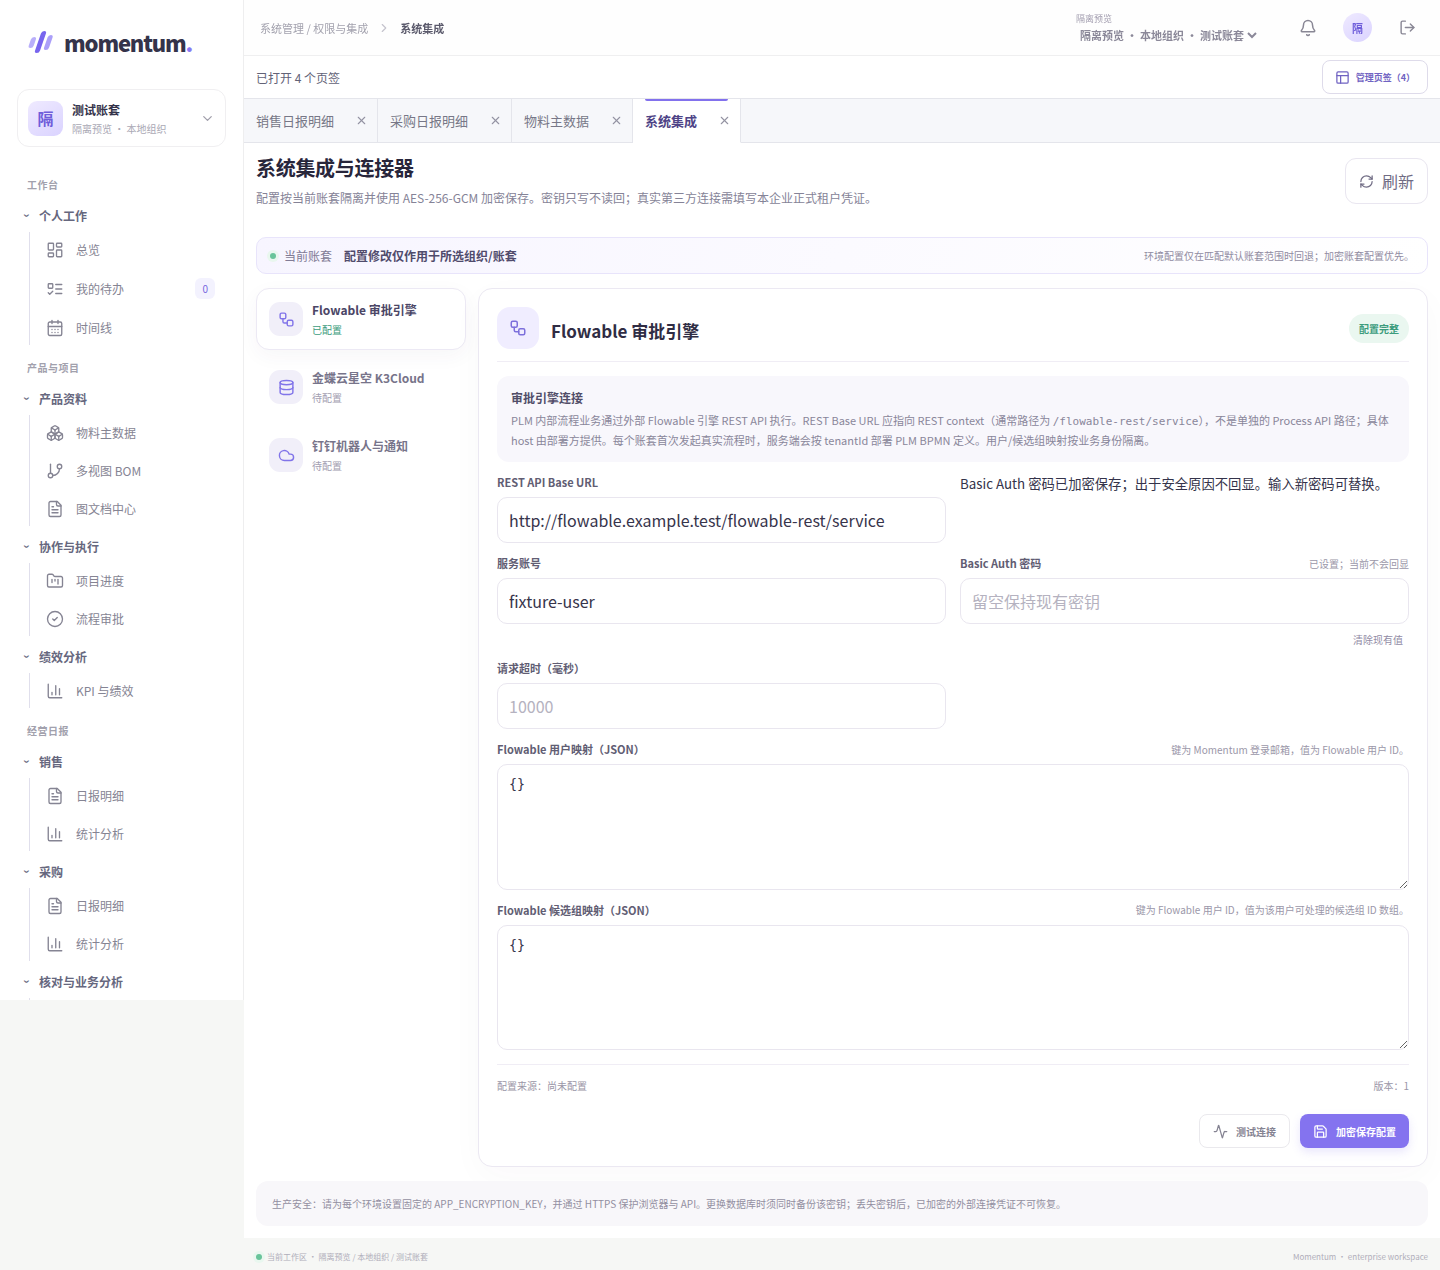
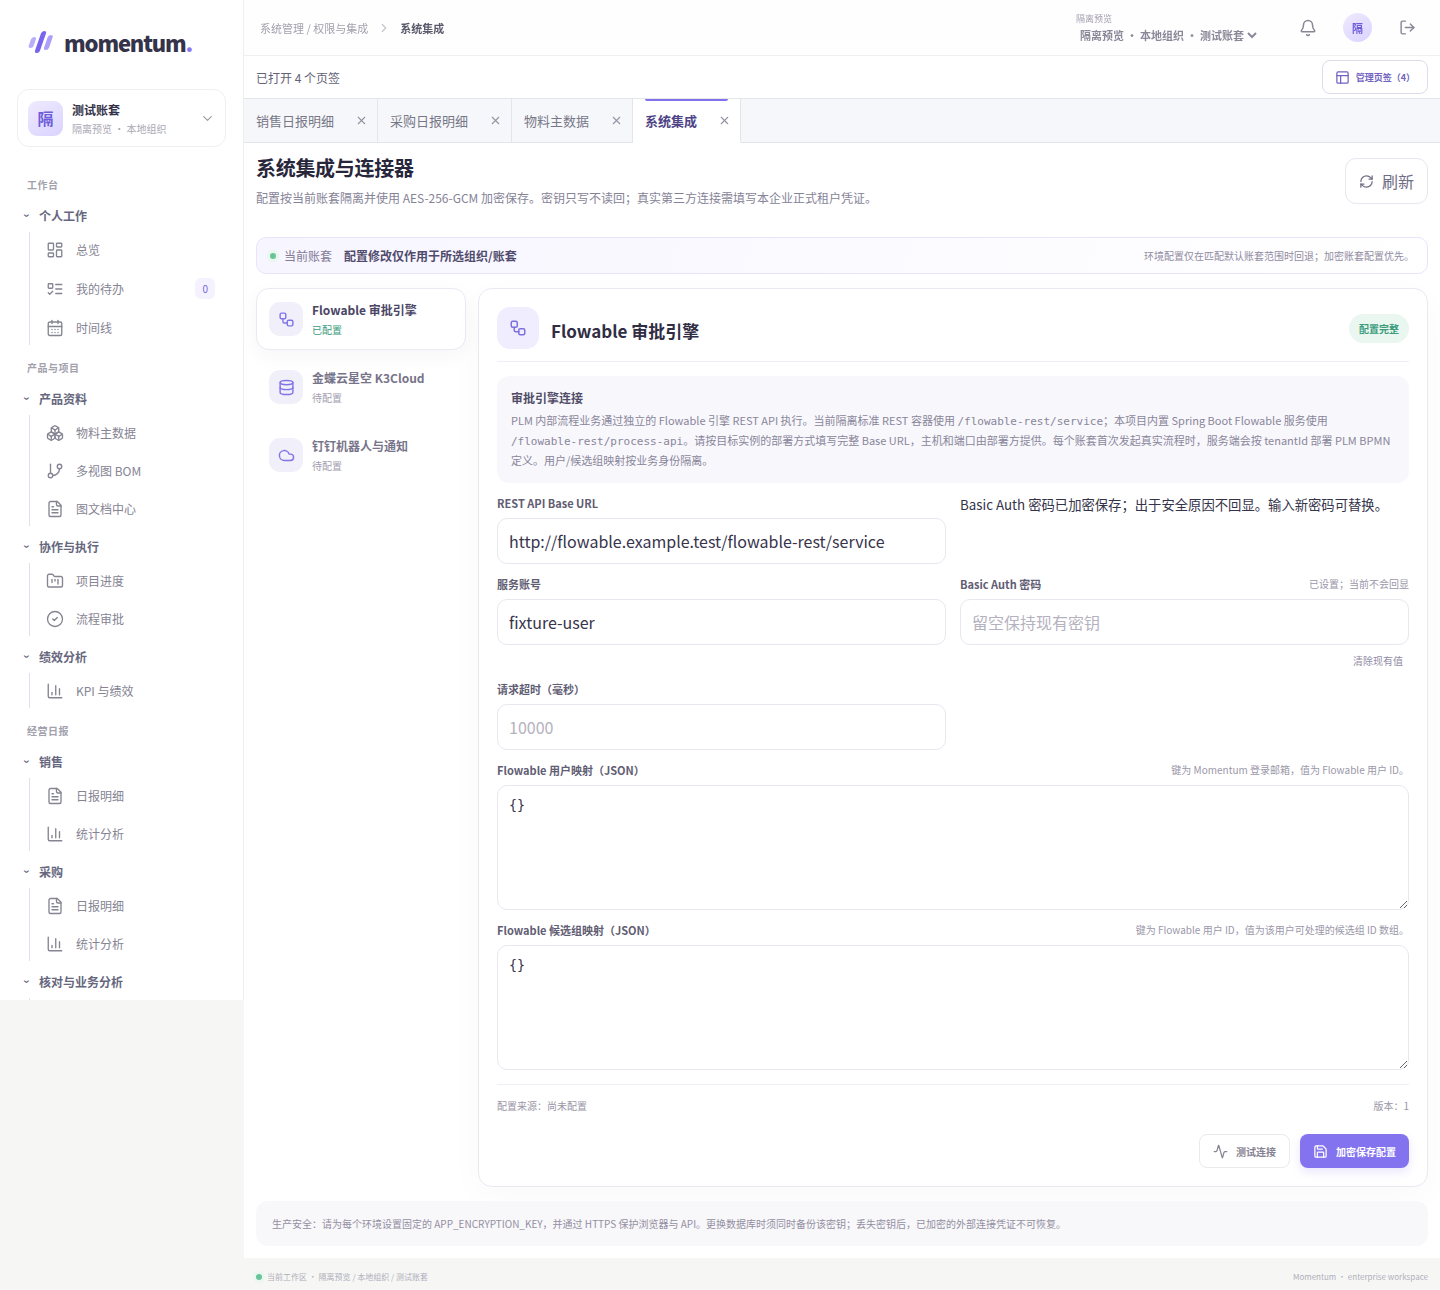
fix(ui): clarify Flowable deployment paths

diff --git a/client/src/ConnectorProviderPanels.tsx b/client/src/ConnectorProviderPanels.tsx
@@ -34,7 +34,7 @@ export function FlowableSettingsPanel({
     <section className="connector-fields" aria-label="Flowable 审批引擎配置">
       <div className="connector-help">
         <b>审批引擎连接</b>
-        <span>PLM 内部流程业务通过外部 Flowable 引擎 REST API 执行。REST Base URL 应指向 REST context（通常路径为 <code>/flowable-rest/service</code>），不是单独的 Process API 路径；具体 host 由部署方提供。每个账套首次发起真实流程时，服务端会按 tenantId 部署 PLM BPMN 定义。用户/候选组映射按业务身份隔离。</span>
+        <span>PLM 内部流程业务通过独立的 Flowable 引擎 REST API 执行。当前隔离标准 REST 容器使用 <code>/flowable-rest/service</code>；本项目内置 Spring Boot Flowable 服务使用 <code>/flowable-rest/process-api</code>。请按目标实例的部署方式填写完整 Base URL，主机和端口由部署方提供。每个账套首次发起真实流程时，服务端会按 tenantId 部署 PLM BPMN 定义。用户/候选组映射按业务身份隔离。</span>
       </div>
       <TextField label="REST API Base URL" value={draft.baseUrl ?? ''} onChange={value => onValueChange('baseUrl', value)} placeholder="https://<Flowable-host>/flowable-rest/service" />
       {restContextHint && <small role="status">{restContextHint}</small>}

diff --git a/client/src/flowable-settings-diagnostics.ts b/client/src/flowable-settings-diagnostics.ts
@@ -17,7 +17,7 @@ export function flowableTestDisabledReason(fields: string[], hasUnsavedChanges =
 export function flowableRestContextHint(value: string): string | null {
   let path = ''
   try { path = new URL(value).pathname.replace(/\/+$/, '') } catch { return null }
-  if (path.endsWith('/flowable-rest/process-api')) return '该示例路径不适合作为 REST Base URL；请使用部署提供的 REST context，通常为 /flowable-rest/service。'
+  if (path.endsWith('/flowable-rest/process-api')) return '这是本项目内置 Spring Boot Flowable 服务的路径；当前隔离标准 REST 容器使用 /flowable-rest/service。'
   if (path.endsWith('/flowable-rest/service')) return null
-  return '请确认 Base URL 指向 Flowable REST context（通常路径为 /flowable-rest/service），而非仅含进程 API 的子路径。'
+  return '请按目标部署方式填写 REST context：本项目内置 Spring Boot 服务使用 /flowable-rest/process-api，标准 Flowable REST 容器使用 /flowable-rest/service。'
 }
